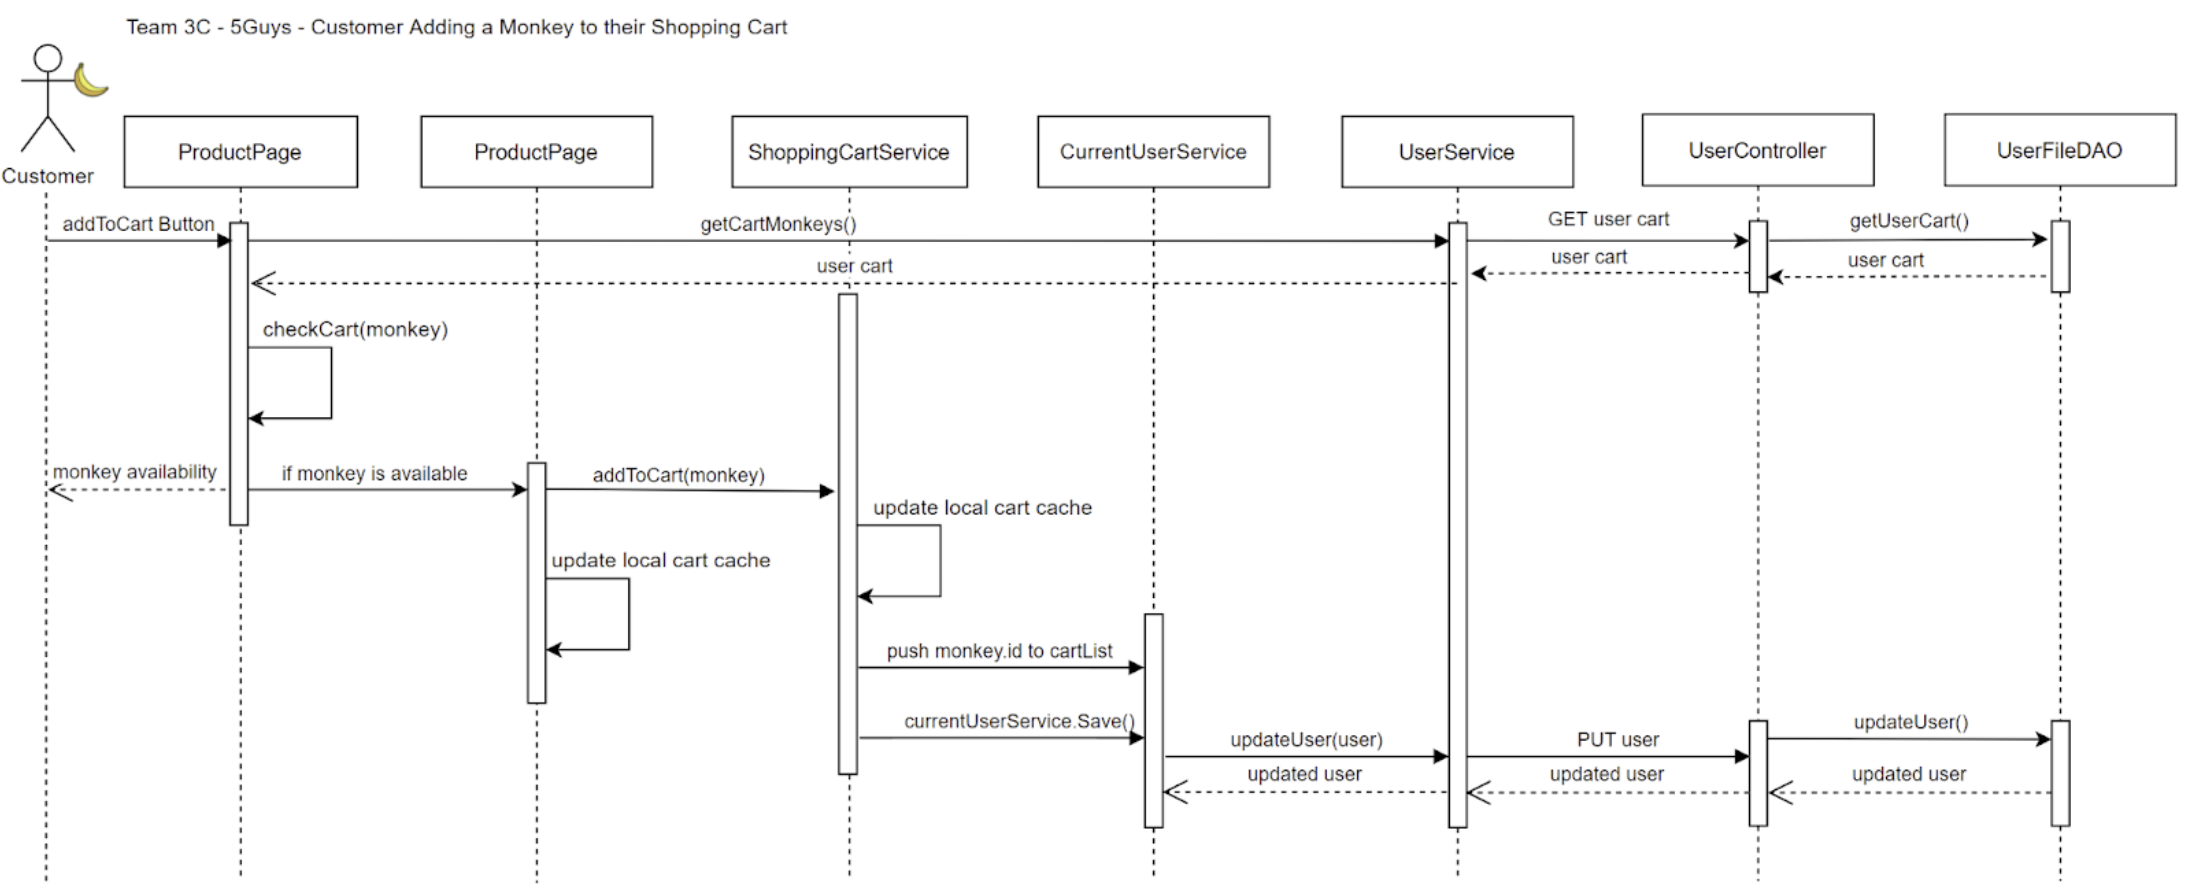
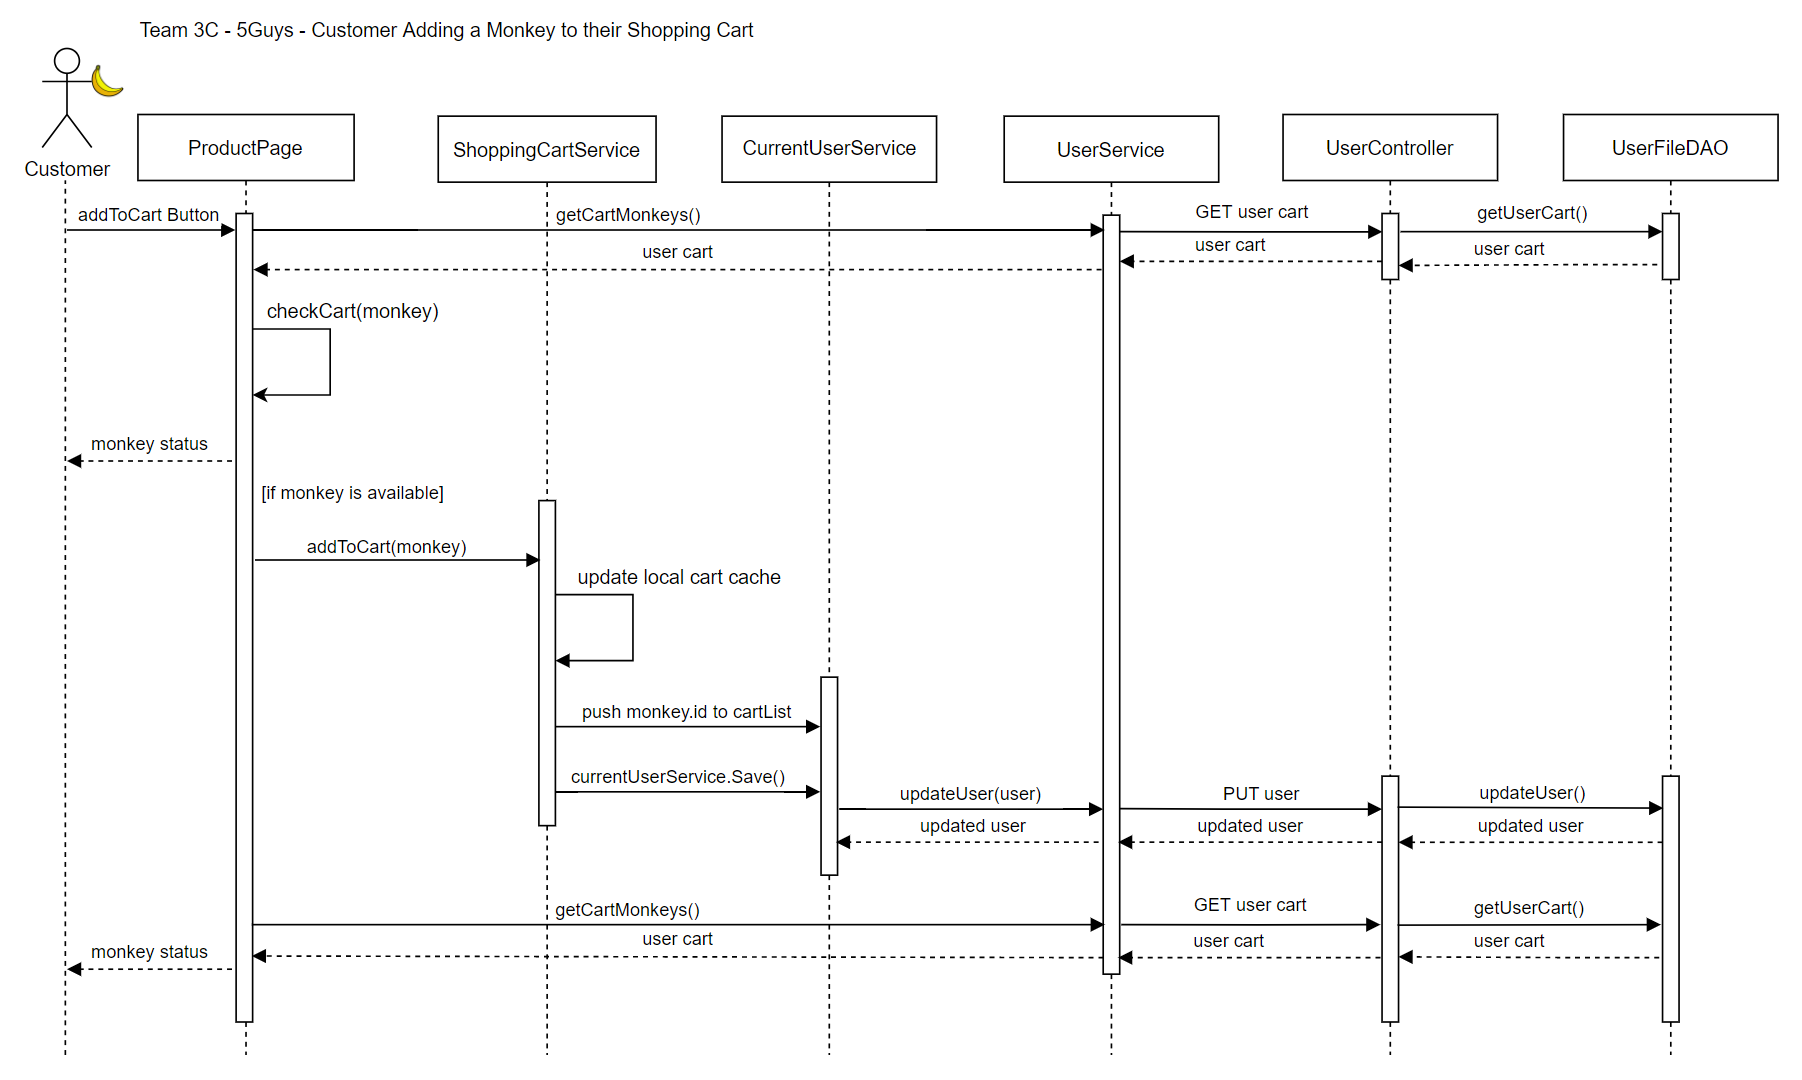
Updated Design Doc
Added updated add to cart sequence diagram. I also updated the add to cart sequence diagram description

diff --git a/docs/DesignDoc.md b/docs/DesignDoc.md
@@ -121,7 +121,7 @@ to leave that monkey a review.
 
 ![Add To Cart Sequence Diagram](addToCart.png)
 
-This sequence diagram shows the process that follows adding a monkey to your cart as a buyer user. A user will begin the process by selecting a monkey's add to cart button on their product page. If the monkey selected is capable of being added to the users cart, the product page will call the addToCart method within the shopping cart service. The ShoppingCart Service and product page will update their respective cart caches, then the ShoppingCart Service will send the updated cart to the CurrentUser Service's local user cache. The CurrentUser Service then calls the save method within the current user service. The CurrentUser Service then will send a PUT request with the updated user to the UserController which will call the updateUser method in the UserFileDAO class to update server's user.
+This sequence diagram shows the process of adding a monkey to your cart as a buyer user. A user will begin the process by selecting a monkey's add to cart button on their product page. This will call the getCartMonkeys function which gets the user's cart through the UserService sending a GET request to the UserController which then uses the getUserCart method. This method calls UserFileDAO which gets information from the json file of users. After the user's cart is retrieved, the checkCart method is used to check if a monkey is in the user's cart. If the monkey selected is capable of being added to the user's cart (it is neither currently rented nor in the user's cart), the product page will call the addToCart method within the shopping cart service. The ShoppingCart Service will update its cart cache, then the ShoppingCart Service will send the updated cart to the CurrentUser Service's local user cache. The ShoppingCart Service then calls the save method within the CurrentUser Service. The CurrentUser Service then will send a PUT request with the updated user to the UserController which will call the updateUser method in the UserFileDAO class to update the user. After the user gets updated, the Product Page will update its view to show whether the customer can add the monkey to their cart.
 
 ![Returning Sequence Diagram](returningSequence.png)
 
